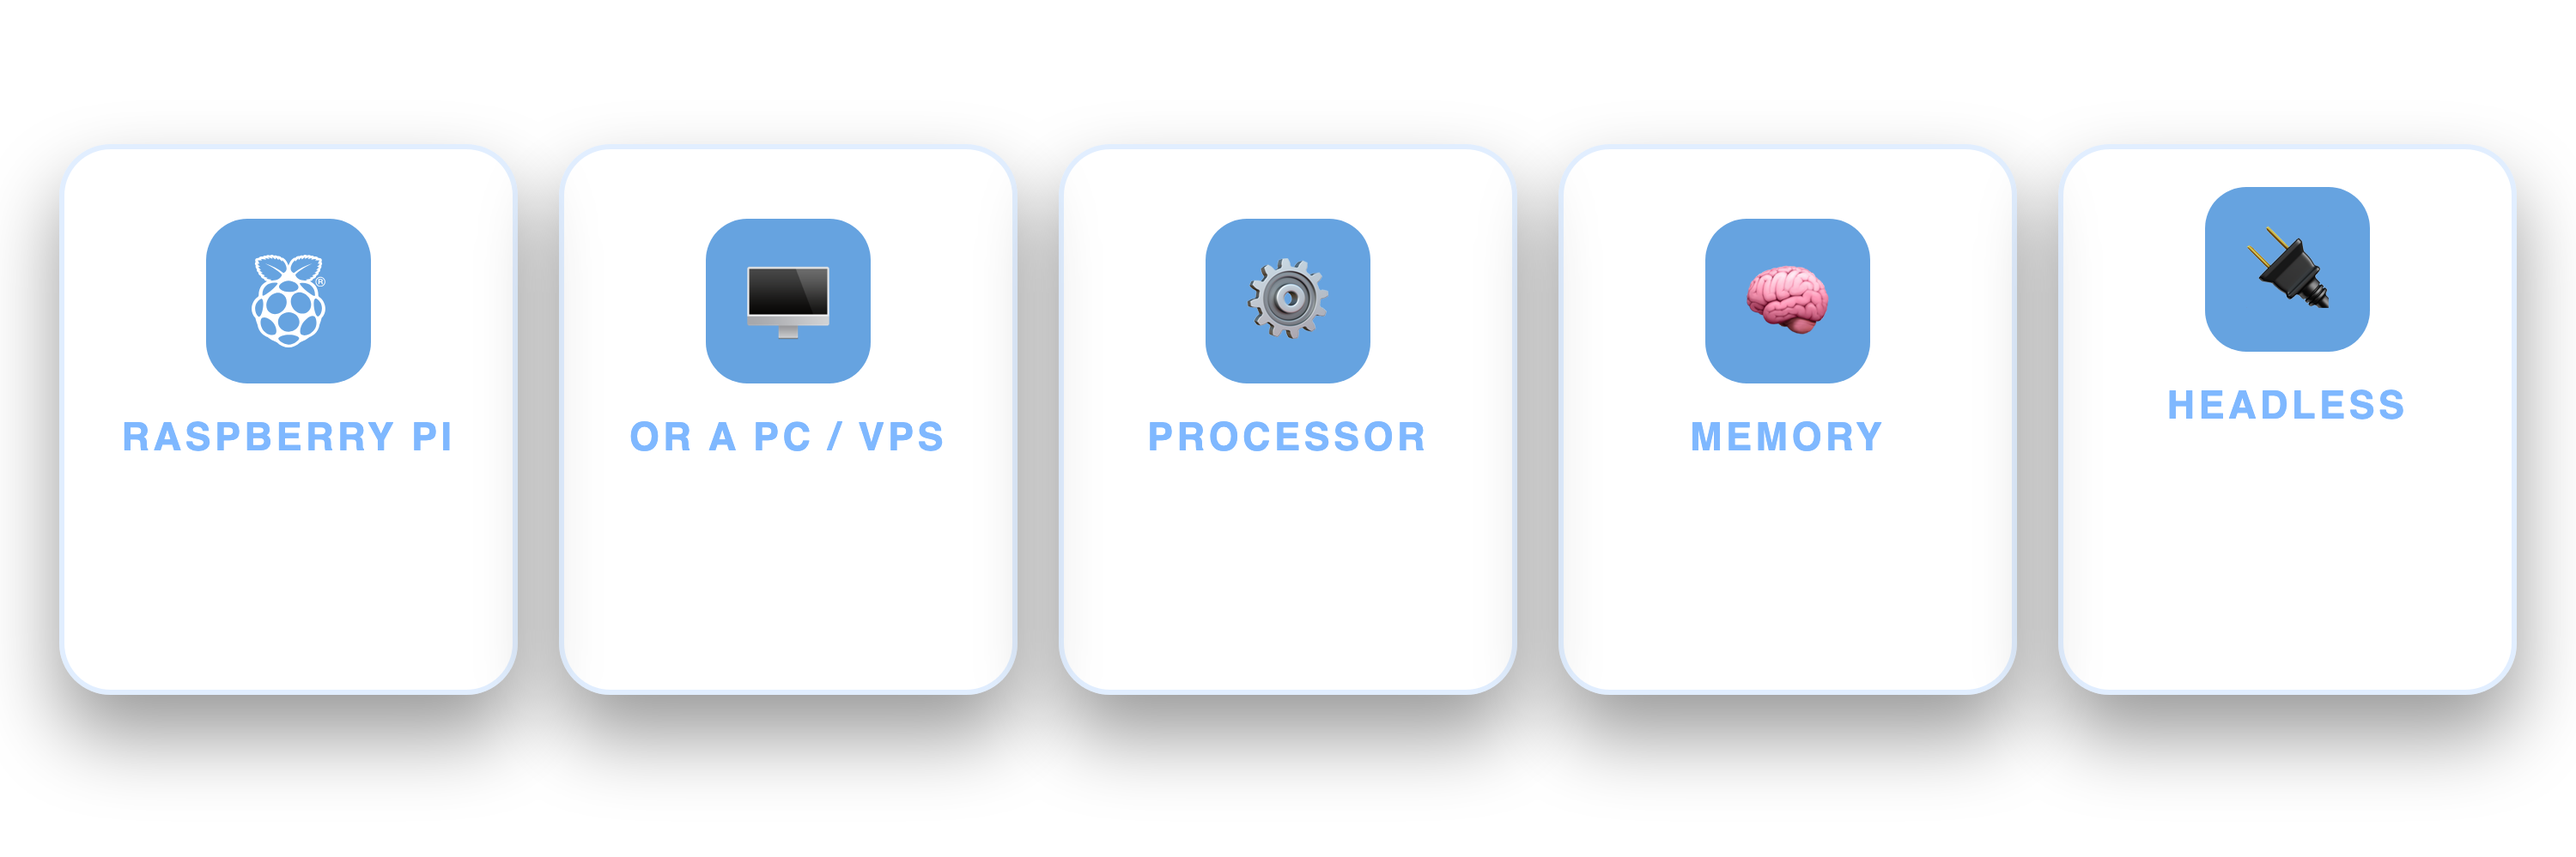
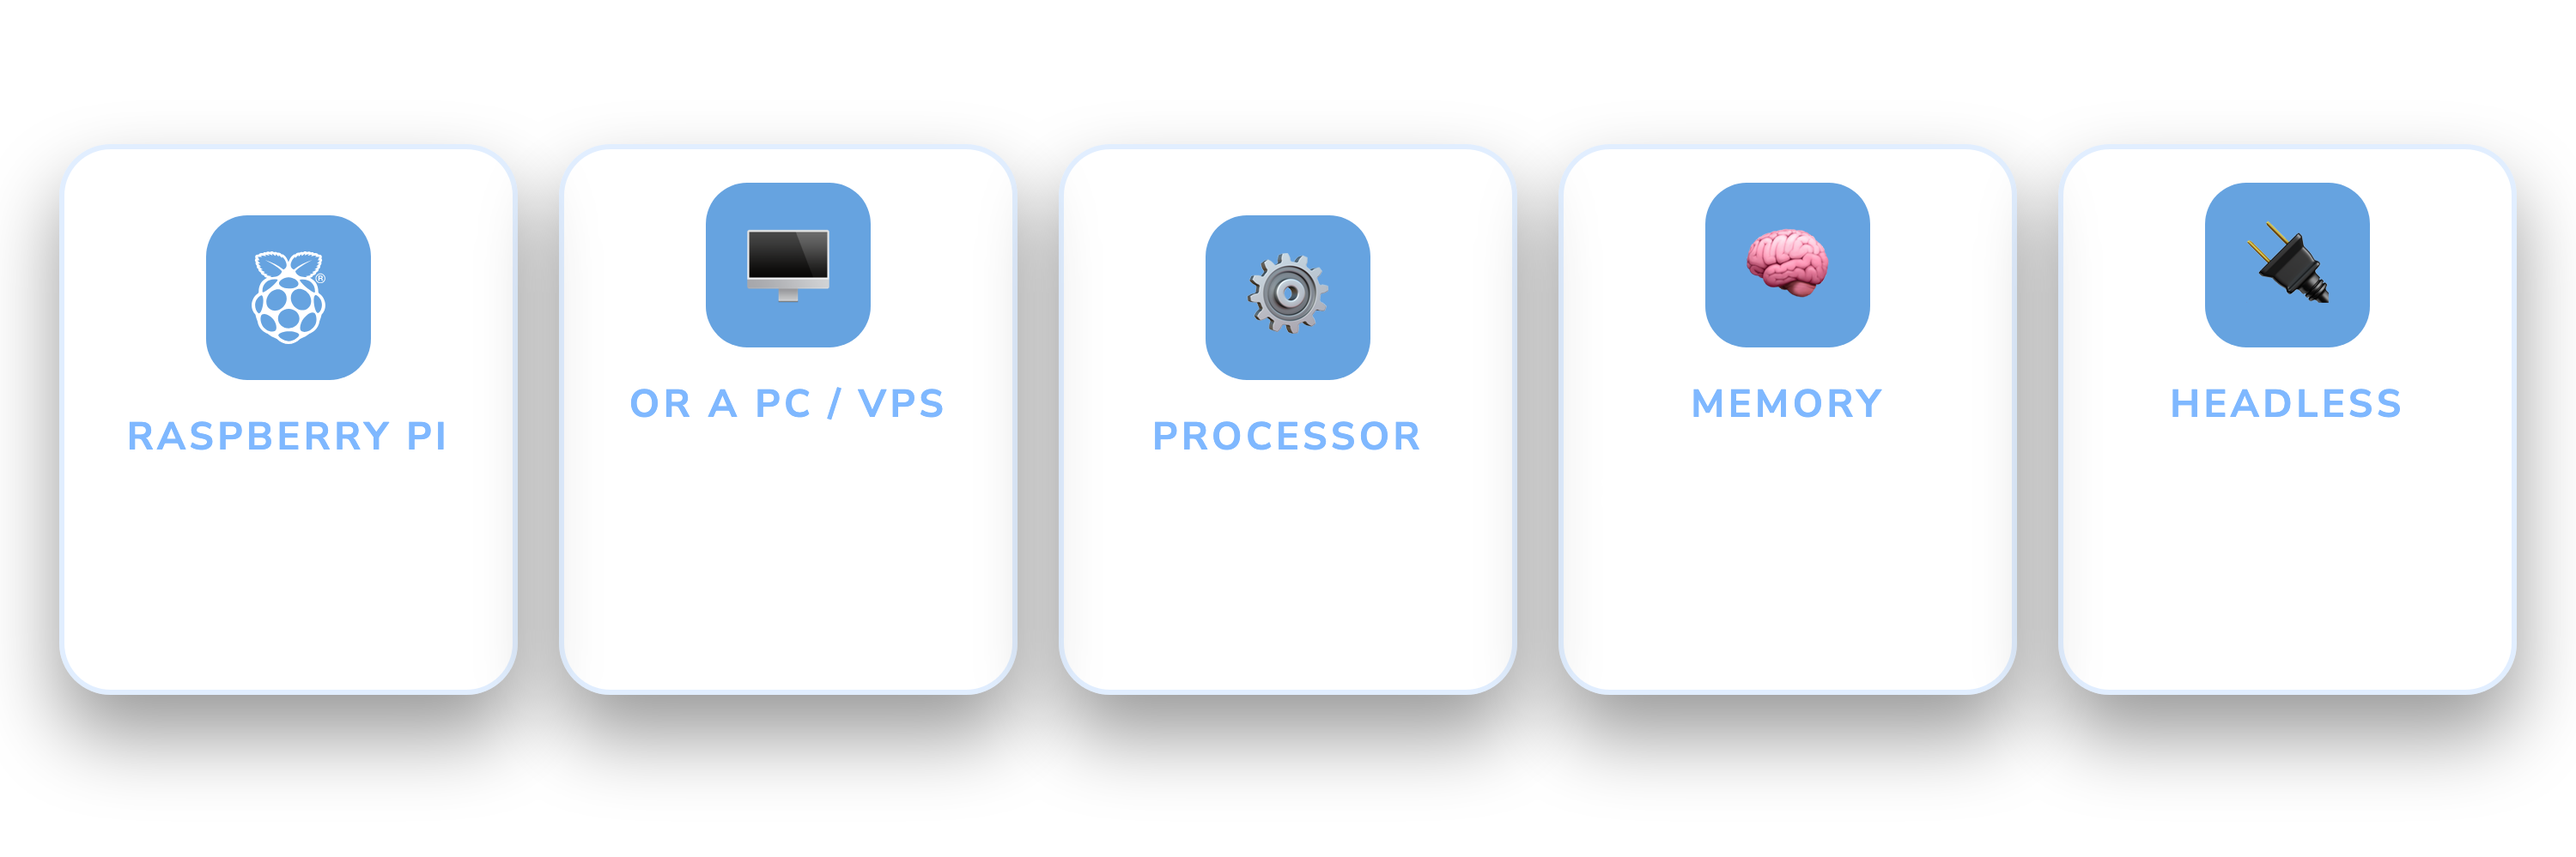
System Requirements header: 8GB minimum, 16GB recommended

diff --git a/website/source/headers/system-requirements.html b/website/source/headers/system-requirements.html
@@ -8,8 +8,8 @@
 </style>
 <div class="sr">
   <div class="t"><span class="ic">{{icon:raspberrypi:#ffffff:36}}</span><div class="k">Raspberry Pi</div><div class="v">Pi 5 or Pi 4, 8GB+</div></div>
-  <div class="t"><span class="ic">🖥</span><div class="k">Or a PC / VPS</div><div class="v">Ubuntu or Debian (64-bit)</div></div>
+  <div class="t"><span class="ic">🖥</span><div class="k">Or a PC / VPS</div><div class="v">Ubuntu or Debian<br>(64&#8209;bit)</div></div>
   <div class="t"><span class="ic">⚙</span><div class="k">Processor</div><div class="v">ARM64 or x86_64</div></div>
-  <div class="t"><span class="ic">🧠</span><div class="k">Memory</div><div class="v">8GB RAM recommended</div></div>
+  <div class="t"><span class="ic">🧠</span><div class="k">Memory</div><div class="v">8GB minimum, 16GB recommended</div></div>
   <div class="t"><span class="ic">🔌</span><div class="k">Headless</div><div class="v">No screen or keyboard needed</div></div>
 </div>
